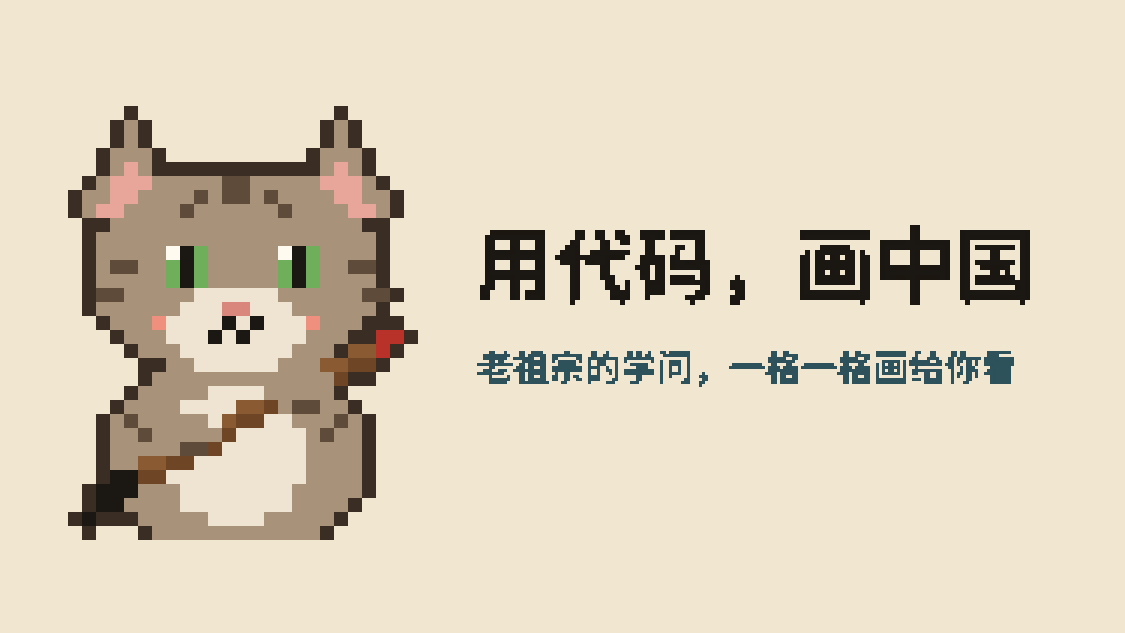
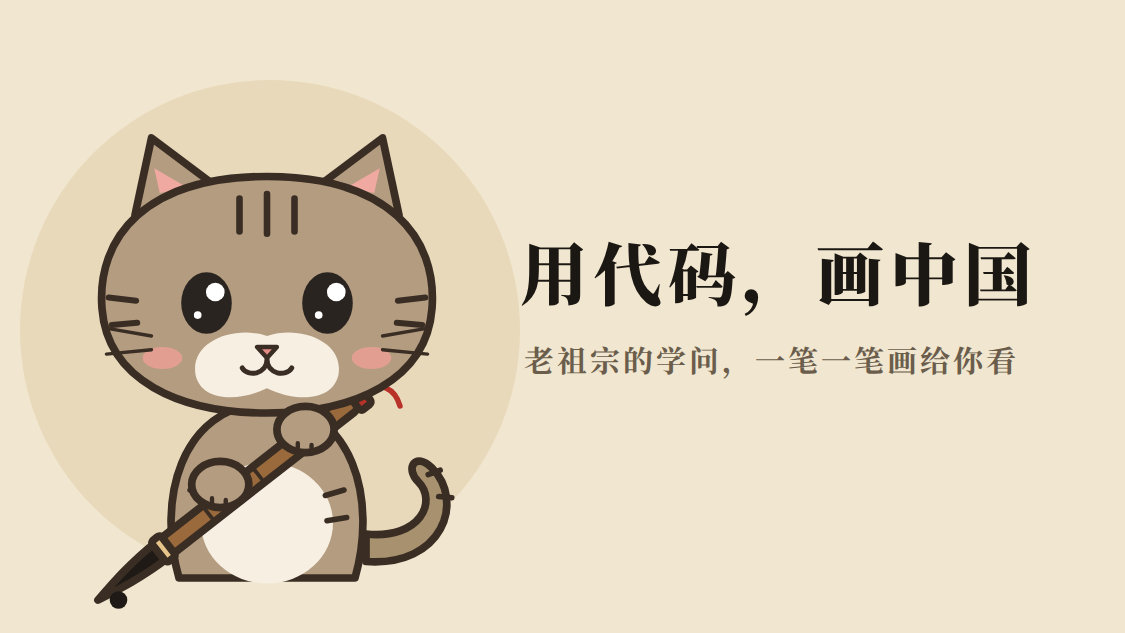
主页形象：扁平插画风的握笔狸花猫
Claude-Session: https://claude.ai/code/session_0123AfSiiAYaCKXmYhymKrjL

Changed region(s): [[0.0622, 0.1501, 0.9333, 0.9605], [0.4044, 0.5403, 0.9022, 0.6303]]

diff --git a/douyin-profile/cat.html b/douyin-profile/cat.html
@@ -1,0 +1,73 @@
+<!doctype html>
+<html><head><meta charset="utf-8">
+<style>
+@font-face{font-family:"Noto Serif SC";src:url(../vibe-kit/fonts/NotoSerifSC-900.ttf);font-weight:900}
+@font-face{font-family:"Noto Serif SC";src:url(../vibe-kit/fonts/NotoSerifSC-700.ttf);font-weight:700}
+html,body{margin:0;background:#000}
+svg{display:block}
+</style>
+</head><body>
+<!-- 一只握毛笔的狸花猫：扁平插画，粗描边。#avatar 1080×1080 头像，#banner 1125×633 主页背景 -->
+<svg width="0" height="0" style="position:absolute">
+  <defs>
+    <g id="cat" stroke="#3a2e24" stroke-width="14" stroke-linejoin="round" stroke-linecap="round">
+      <!-- 尾巴 -->
+      <path d="M720 930 C 860 940, 900 820, 840 760 C 810 730, 790 760, 815 785 C 850 820, 820 890, 720 880 Z" fill="#a8916f"/>
+      <path d="M833 772 l 22 -8 M 852 812 l 24 2" fill="none" stroke-width="10"/>
+      <!-- 身子 -->
+      <path d="M380 960 C 340 820, 380 650, 540 640 C 700 650, 740 820, 700 960 Z" fill="#b49c80"/>
+      <ellipse cx="540" cy="860" rx="120" ry="110" fill="#f6efe2" stroke="none"/>
+      <path d="M400 800 l 34 10 M 395 850 l 36 6 M 680 800 l -34 10 M 685 850 l -36 6" fill="none" stroke-width="10"/>
+      <!-- 毛笔（在爪子后面）-->
+      <g transform="rotate(-38 540 760)">
+        <rect x="300" y="742" width="440" height="36" rx="12" fill="#9a6a3c"/>
+        <path d="M405 742 v36 M 520 742 v36 M 635 742 v36" stroke-width="7"/>
+        <rect x="738" y="736" width="26" height="48" rx="6" fill="#b8322a"/>
+        <path d="M764 760 C 800 760, 812 790, 800 820" fill="none" stroke="#b8322a" stroke-width="10"/>
+        <path d="M300 742 C 240 742, 190 752, 150 760 C 190 768, 240 778, 300 778 Z" fill="#1f1a16"/>
+        <rect x="290" y="736" width="22" height="48" rx="6" fill="#e6c48a"/>
+      </g>
+      <circle cx="270" cy="1000" r="16" fill="#1f1a16" stroke="none"/>
+      <!-- 头 -->
+      <path d="M300 300 L 330 160 L 450 250 Z" fill="#b49c80"/>
+      <path d="M780 300 L 750 160 L 630 250 Z" fill="#b49c80"/>
+      <path d="M335 215 L 345 260 L 395 250 Z M 745 215 L 735 260 L 685 250 Z" fill="#f0a9a0" stroke="none"/>
+      <path d="M540 230 C 760 230, 850 340, 840 470 C 830 600, 700 660, 540 660 C 380 660, 250 600, 240 470 C 230 340, 320 230, 540 230 Z" fill="#b49c80"/>
+      <!-- 额头的 M 纹和脸颊条纹 -->
+      <path d="M490 270 l 0 60 M 540 262 l 0 72 M 590 270 l 0 60" fill="none" stroke-width="12"/>
+      <path d="M252 450 l 50 6 M 258 500 l 46 -4 M 828 450 l -50 6 M 822 500 l -46 -4" fill="none" stroke-width="11"/>
+      <!-- 嘴边白毛 -->
+      <path d="M540 520 C 600 500, 680 530, 670 590 C 660 640, 590 640, 540 615 C 490 640, 420 640, 410 590 C 400 530, 480 500, 540 520 Z" fill="#f6efe2" stroke="none"/>
+      <!-- 眼睛 -->
+      <ellipse cx="430" cy="460" rx="46" ry="56" fill="#2a2420" stroke="none"/>
+      <ellipse cx="650" cy="460" rx="46" ry="56" fill="#2a2420" stroke="none"/>
+      <circle cx="446" cy="440" r="17" fill="#fff" stroke="none"/><circle cx="414" cy="482" r="7" fill="#fff" stroke="none"/>
+      <circle cx="666" cy="440" r="17" fill="#fff" stroke="none"/><circle cx="634" cy="482" r="7" fill="#fff" stroke="none"/>
+      <!-- 腮红、鼻子、嘴、胡子 -->
+      <ellipse cx="350" cy="560" rx="36" ry="20" fill="#f2a097" stroke="none" opacity=".75"/>
+      <ellipse cx="730" cy="560" rx="36" ry="20" fill="#f2a097" stroke="none" opacity=".75"/>
+      <path d="M522 540 L 558 540 L 540 560 Z" fill="#e48b84" stroke-width="8"/>
+      <path d="M540 562 C 540 590, 505 595, 495 578 M 540 562 C 540 590, 575 595, 585 578" fill="none" stroke-width="9"/>
+      <path d="M330 520 l -80 -14 M 330 545 l -82 8 M 750 520 l 80 -14 M 750 545 l 82 8" fill="none" stroke-width="6"/>
+      <!-- 两只爪子握住笔 -->
+      <ellipse cx="455" cy="790" rx="52" ry="42" fill="#b49c80"/>
+      <ellipse cx="610" cy="690" rx="52" ry="42" fill="#b49c80"/>
+      <path d="M440 815 v 14 M 465 818 v 14 M 596 715 v 14 M 621 718 v 14" fill="none" stroke-width="8"/>
+    </g>
+  </defs>
+</svg>
+
+<svg id="avatar" width="1080" height="1080" viewBox="0 0 1080 1080">
+  <rect width="1080" height="1080" fill="#f1e6cf"/>
+  <circle cx="540" cy="560" r="430" fill="#e8d9bb"/>
+  <use href="#cat" transform="translate(30 20) scale(.95)"/>
+</svg>
+
+<svg id="banner" width="1125" height="633" viewBox="0 0 1125 633">
+  <rect width="1125" height="633" fill="#f1e6cf"/>
+  <circle cx="270" cy="330" r="250" fill="#e8d9bb"/>
+  <use href="#cat" transform="translate(-30 50) scale(.55)"/>
+  <text x="520" y="300" font-family="Noto Serif SC" font-weight="900" font-size="68" fill="#1b1712" letter-spacing="6">用代码，画中国</text>
+  <text x="524" y="372" font-family="Noto Serif SC" font-weight="700" font-size="30" fill="#6b5d4c" letter-spacing="3">老祖宗的学问，一笔一笔画给你看</text>
+</svg>
+</body></html>
